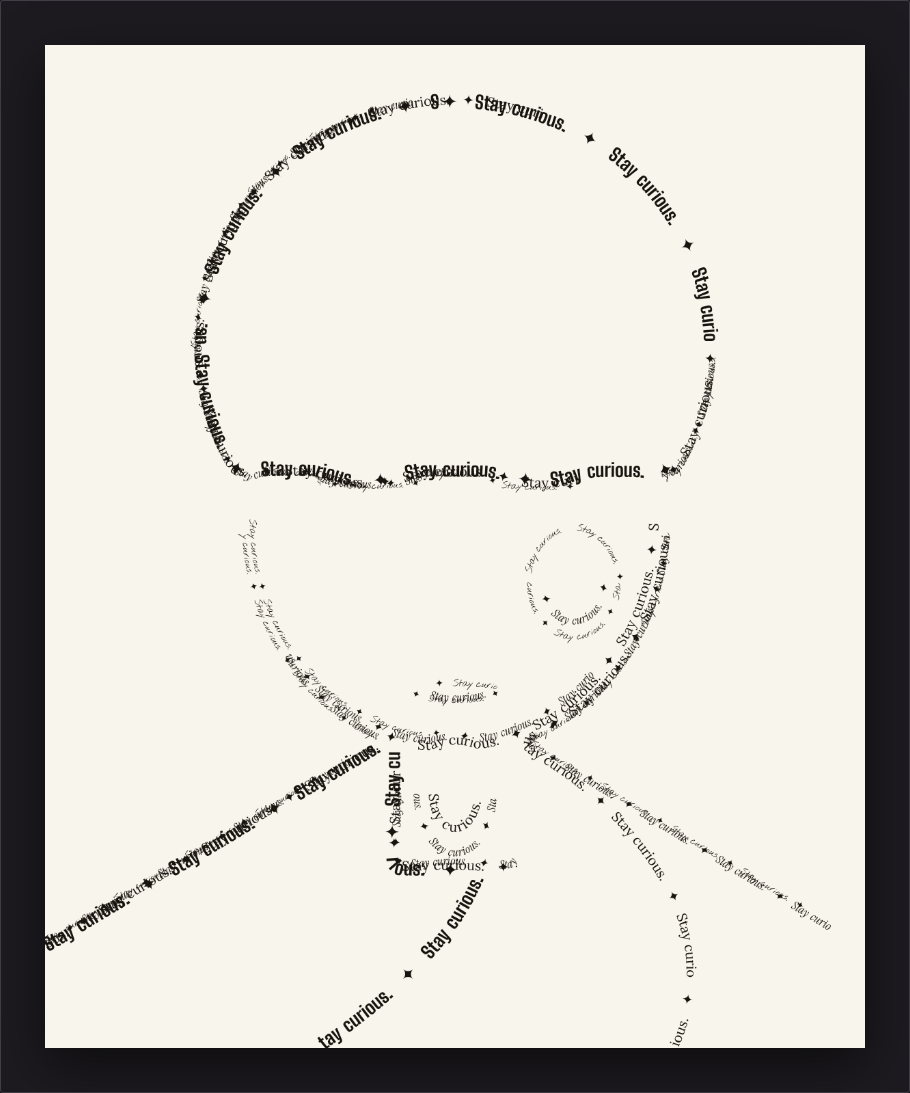
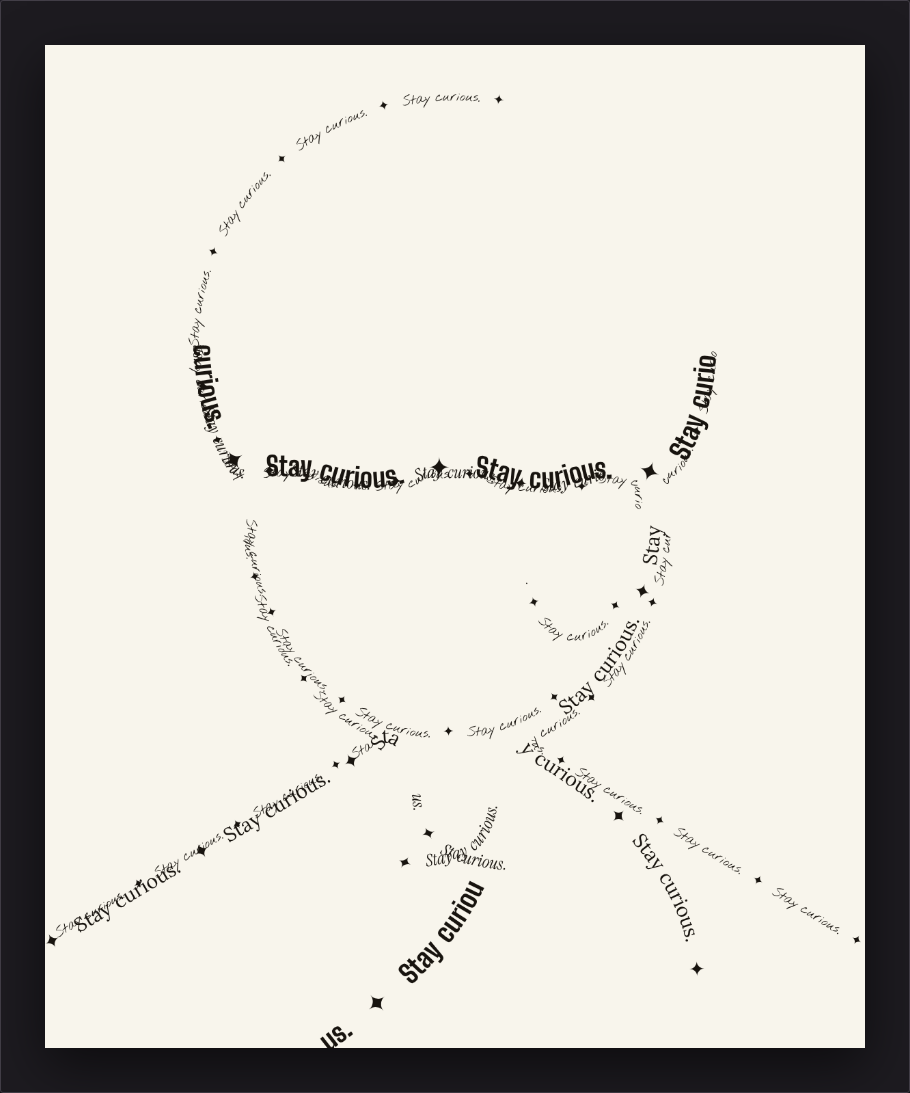
Rebalance calligram engine toward legibility over raw contour coverage
The previous tuning chased contour coverage (fill as many strokes as
possible), which drove type down to ~20px and packed text onto every
short, tightly-clustered edge a real photo produces — dense areas like
eyes and glasses became illegible overlapping tangles, and the quote
itself was chopped into too many short fragments to read as a phrase.

Two changes fix this:

- Deduplicate near-identical contours. A hard edge in the photo gets
  crossed by two or three adjacent tone thresholds within a few pixels of
  each other, so multiple levels each traced their own near-copy of the
  same real edge (e.g. a head/background boundary came back as two or
  three concentric duplicate strokes). Now a candidate contour is dropped
  if its start/middle/end all fall within a small distance of an
  already-accepted stroke, so only the single most prominent copy of each
  real edge gets lettered.
- Retune the size solver to target legibility (a modest fraction of
  contours need to qualify for a character) rather than maximum coverage,
  and raise the type-size floor per tier. Fewer, longer, well-separated
  strokes now carry the text, so most of the portrait reads as continuous
  phrases rather than scattered confetti.

diff --git a/web/index.html b/web/index.html
@@ -391,7 +391,7 @@
   const TIER_PREFIX = [null, "", "italic ", "", ""];
   const TIER_FAMILY = [null, "'NothingYouCouldDo', cursive", "'InstrumentSerif', serif", "'Lora', serif", "'BigShoulders', sans-serif"];
   const TIER_SCALE = [null, 0.68, 0.85, 1.0, 1.35];
-  const TIER_MIN   = [null, 14, 11, 8, 12];
+  const TIER_MIN   = [null, 17, 14, 13, 15];
   const MAX_FONT_CAP = 220;
 
   const els = {
@@ -751,7 +751,34 @@
   const CONTOUR_STEP = 3;   // marching-squares grid spacing, in output px
 
   function buildContourField(){
-    return blurField(darkness, mapW, mapH, Math.max(1, Math.round(mapW / 300)));
+    return blurField(darkness, mapW, mapH, Math.max(1, Math.round(mapW / 160)));
+  }
+
+  // A sharp edge in the photo (not a soft gradient) gets crossed by two or three adjacent
+  // tone thresholds within just a few pixels of each other, so multiple levels each trace
+  // their own near-identical copy of that one real edge — e.g. a hard head/background
+  // boundary comes back as two or three nearly-concentric duplicate strokes. Lettering
+  // every copy piles overlapping text on top of itself right where the image most needs a
+  // single clean line. A candidate is a duplicate if its start, middle, and end all fall
+  // within `dist` of some already-accepted stroke; since accepted strokes are considered
+  // level-ascending, length-descending, the first (most prominent) copy of a stroke always
+  // wins and later near-copies are dropped outright rather than lettered.
+  function nearestPointDist(px, py, points){
+    let min = Infinity;
+    for (const p of points){
+      const d = Math.hypot(p.x - px, p.y - py);
+      if (d < min) min = d;
+    }
+    return min;
+  }
+
+  function isDuplicateContour(candidate, accepted, dist){
+    const pts = candidate.points;
+    const samples = [pts[0], pts[Math.floor(pts.length / 2)], pts[pts.length - 1]];
+    for (const acc of accepted){
+      if (samples.every(s => nearestPointDist(s.x, s.y, acc.points) <= dist)) return true;
+    }
+    return false;
   }
 
   // Threshold levels are the four tonal bands' boundaries (the Otsu split, and three
@@ -767,13 +794,19 @@
     const t0 = clamp(computeOtsuThreshold(field, mapW, mapH) + bias, 0, 248);
     const span = (255 - t0) / 4;
     const levels = [t0, t0 + span, t0 + span * 2, t0 + span * 3];
-    const minLength = clamp(mapW * 0.08, 60, 160);
+    const minLength = clamp(mapW * 0.16, 130, 280);
     const out = [];
     levels.forEach((thr, idx) => {
       out.push(...extractContours(field, mapW, mapH, CONTOUR_STEP, thr, idx + 1, minLength));
     });
     out.sort((a, b) => (a.level - b.level) || (b.length - a.length));
-    return out;
+
+    const dupDist = clamp(mapW * 0.02, 12, 30);
+    const deduped = [];
+    for (const c of out){
+      if (!isDuplicateContour(c, deduped, dupDist)) deduped.push(c);
+    }
+    return deduped;
   }
 
   // A calligram artist doesn't stop tracing once a short phrase runs out of letters —
@@ -834,11 +867,15 @@
   const MAX_CHARS_PER_CONTOUR = 80;
 
   // Rather than solving "does the whole quote fit" (moot now that it repeats forever),
-  // pick the largest type size at which most available contours are still long enough to
-  // hold at least one character — too large a size and only the handful of longest
-  // strokes (an outer jaw line, a shoulder) can carry any text, leaving the interior
-  // detail (eyes, brow, glasses rim) bare; too small and the type stops reading as
-  // letters. `targetCoverage` is the fraction of contours that must qualify.
+  // pick the largest type size at which a healthy share of the available contours are
+  // still long enough to hold at least one character. This is a legibility knob more than
+  // a coverage one: a real word-artist doesn't letter every stray texture line, just the
+  // strokes substantial enough to carry a readable word or two. `targetCoverage` is
+  // deliberately modest — biasing toward a size you can actually read the quote at, over
+  // cramming type into every last short, cluttered contour (tiny detail lines are simply
+  // left untouched by `walkContours` when they're too short to hold even one glyph at
+  // this size, which is what keeps dense areas like eyes/glasses from turning into an
+  // illegible tangle of overlapping fragments).
   function measureAvgCharWidth(ctx, level, size){
     const fontSize = clamp(size * TIER_SCALE[level], TIER_MIN[level], MAX_FONT_CAP);
     ctx.font = fontString(level, fontSize);
@@ -853,9 +890,9 @@
   }
 
   function solveCalligram(ctx, contours){
-    const minFont = clamp(Math.round(mapW / 260), 6, 9);
-    const maxFont = clamp(Math.round(mapW / 60), 14, 34);
-    const targetCoverage = 0.8;
+    const minFont = clamp(Math.round(mapW / 170), 9, 14);
+    const maxFont = clamp(Math.round(mapW / 42), 20, 46);
+    const targetCoverage = 0.4;
 
     if (coverageAt(ctx, contours, maxFont) >= targetCoverage) return maxFont;
     if (coverageAt(ctx, contours, minFont) < targetCoverage) return minFont;
